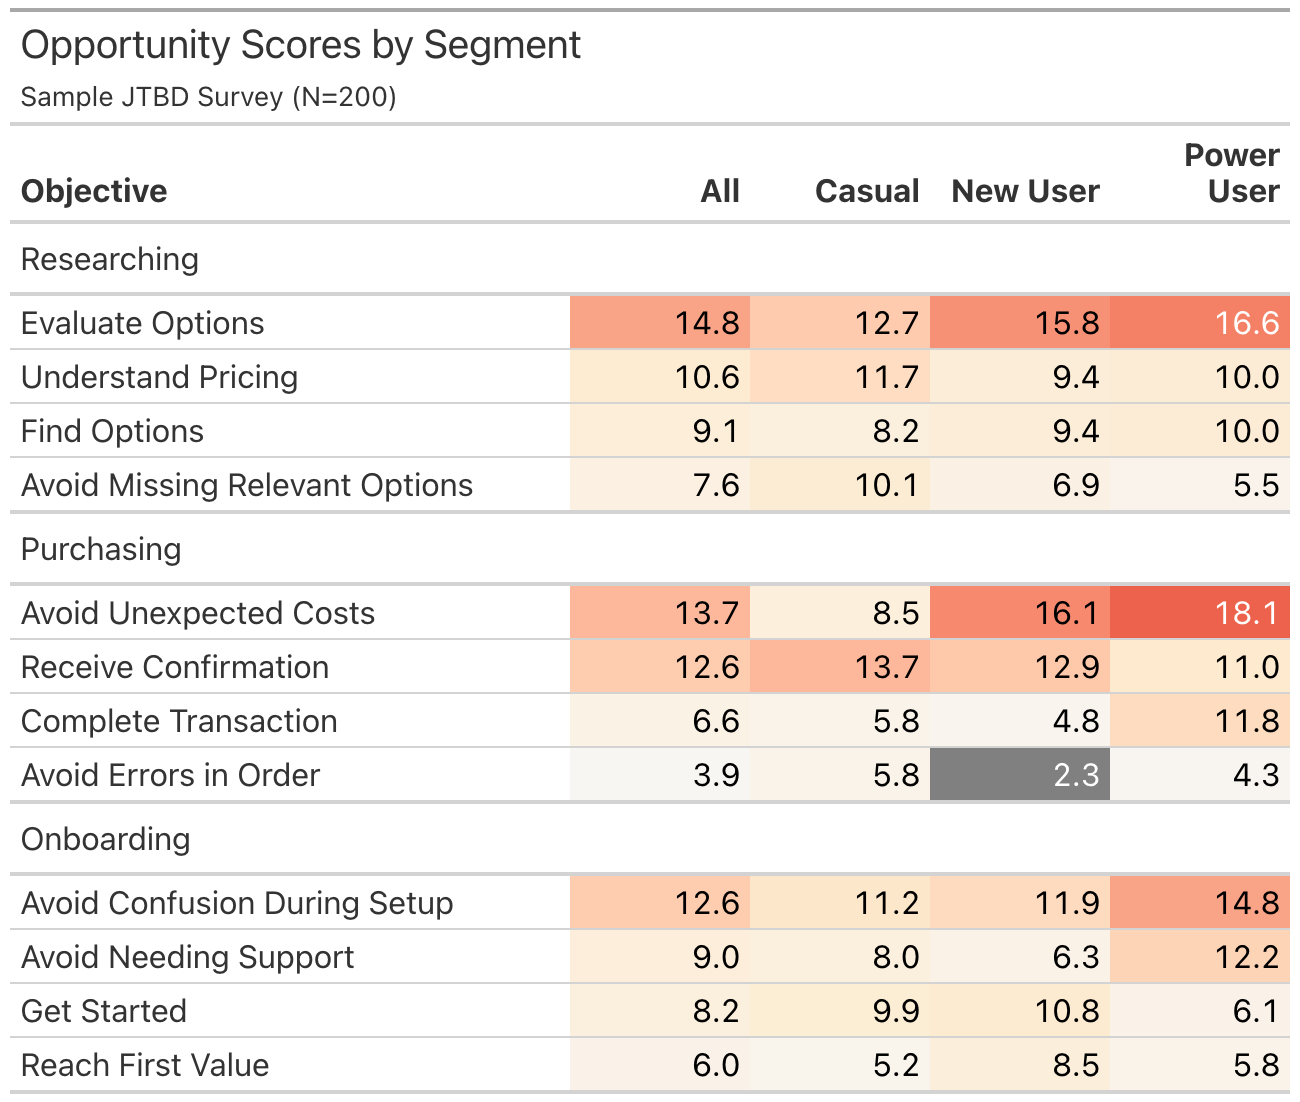
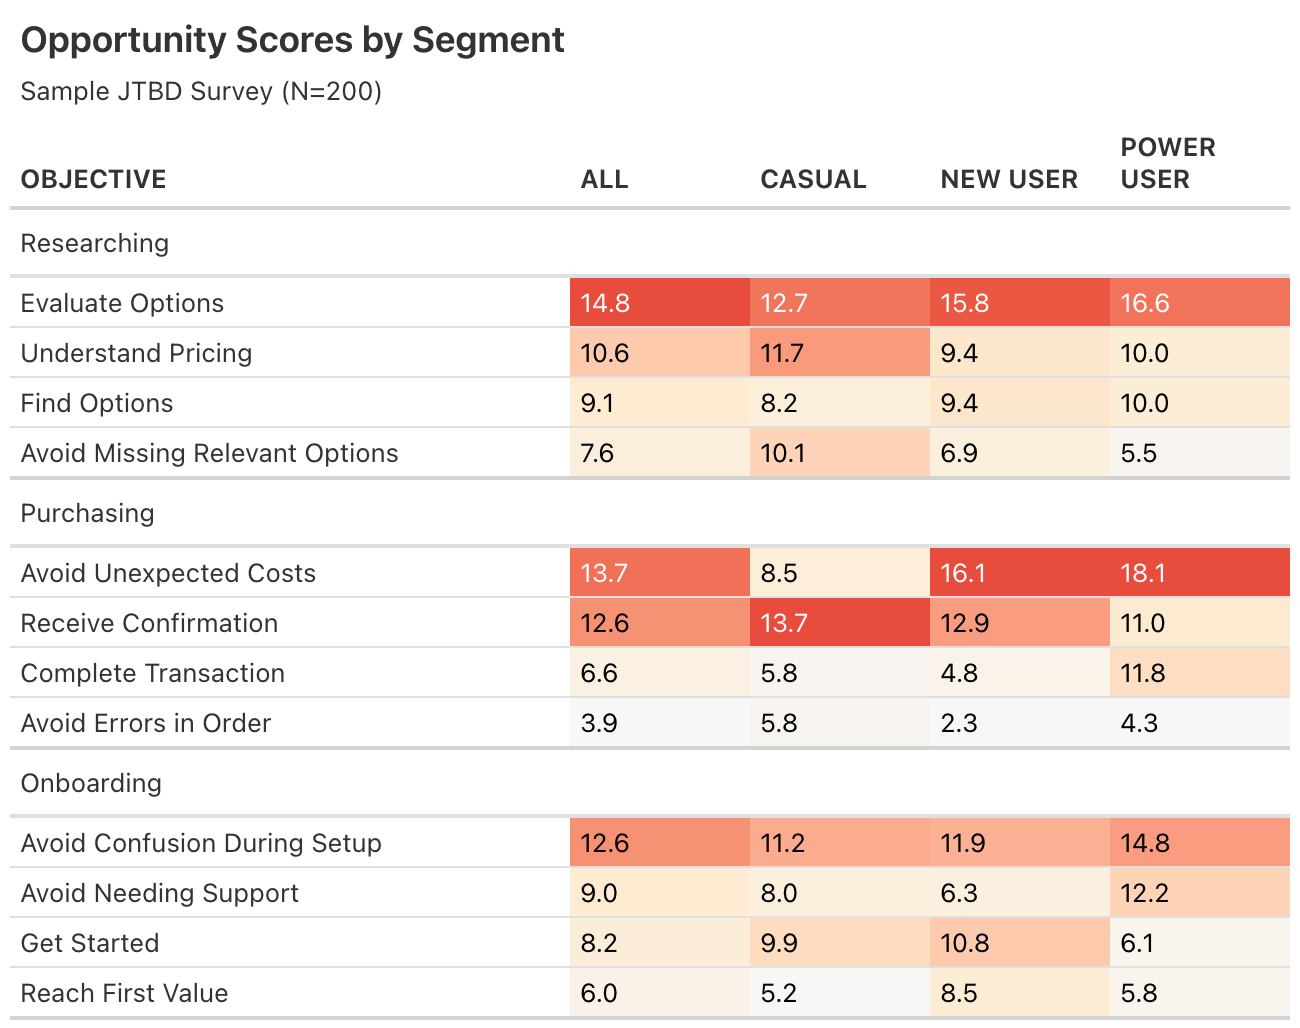
Add 8 visualizations to README for maximum wow factor
- Strategic Priority Quadrant (act now / monitor / investigate / deprioritize)
- Opportunity Gap chart (importance vs satisfaction dumbbell)
- Opportunity Heatmap by Segment (tile plot with heat-mapped scores)
- Opportunity Matrix with zone annotations
- Priority Ranking (color-coded horizontal bar chart)
- Cleveland Dot Plot for segment head-to-head
- Segment Divergence chart (delta from overall)
- Publication-ready gt table with gt_theme_jtbd()
- Add data-raw/generate_screenshots.R for reproducibility

diff --git a/README.md b/README.md
@@ -10,33 +10,65 @@
 
 ## The Formula
 
-The ODI opportunity score measures unmet customer needs:
-
 ```
 opportunity = importance + max(0, importance - satisfaction)
 ```
 
 When importance exceeds satisfaction, the gap amplifies the score. When users are already satisfied, opportunity equals importance (the floor). Scores range 0-20; anything above 10 is a high-opportunity outcome.
 
+---
+
 ## What You Get
 
-### Segment comparison tables
+### Strategic Priority Quadrant
 
-Compare opportunity scores across user segments to find where specific groups are underserved:
+Where should you focus? High importance + low satisfaction = act now.
 
-<img src="man/figures/readme-segment-table.png" width="600" alt="Segment comparison table" />
+<img src="man/figures/readme-quadrant.png" width="700" alt="Strategic priority quadrant" />
 
-### Opportunity matrix
+### The Opportunity Gap
 
-The classic ODI scatter plot with zone annotations. High importance + low satisfaction = high opportunity (red). Use `show_zones = TRUE` to add Under-Served / Appropriately-Served / Over-Served reference lines:
+See the gap between what users need and what they have. Wider gap = bigger opportunity.
+
+<img src="man/figures/readme-gap-chart.png" width="700" alt="Importance vs satisfaction gap chart" />
+
+### Opportunity Heatmap by Segment
+
+Spot segment-specific pain at a glance. Power users are underserved on "Avoid Unexpected Costs" (18.1) while casuals barely feel it (8.5).
+
+<img src="man/figures/readme-heatmap.png" width="650" alt="Opportunity heatmap across segments" />
+
+### Opportunity Matrix with Zone Annotations
+
+The classic ODI scatter plot with Under-Served, Appropriately-Served, Over-Served, and Table Stakes zones:
 
 <img src="man/figures/readme-opportunity-matrix-zones.png" width="700" alt="Opportunity score matrix with zones" />
 
-### Ranked opportunity scores
+### Priority Ranking
 
-Instantly see which outcomes have the highest unmet need:
+All objectives ranked by opportunity score, color-coded by priority tier:
 
-<img src="man/figures/readme-top-opportunities.png" width="600" alt="Top opportunity scores" />
+<img src="man/figures/readme-ranked.png" width="700" alt="Ranked opportunity scores by priority" />
+
+### Segment Head-to-Head (Cleveland Dot Plot)
+
+Compare two segments side by side. Where do casual users and power users diverge?
+
+<img src="man/figures/readme-cleveland.png" width="700" alt="Cleveland dot plot comparing segments" />
+
+### Segment Divergence
+
+How does each segment differ from the overall population? Instantly spot who's over- and under-served:
+
+<img src="man/figures/readme-segment-divergence.png" width="700" alt="Segment divergence from overall" />
+
+### Publication-Ready Tables
+
+Formatted gt tables with heat-mapped scores, ready for stakeholder decks:
+
+<img src="man/figures/readme-segment-table.png" width="550" alt="Segment comparison table" />
+
+---
 
 ## Quick Start
 
@@ -54,7 +86,7 @@ scores <- get_jtbd_scores(jtbd_sample)
 comparison <- get_jtbd_scores.comparison(jtbd_sample, "segment")
 
 # Visualize
-plot_opportunity_matrix(scores)
+plot_opportunity_matrix(scores, show_zones = TRUE)
 ```
 
 ## Functions
@@ -65,11 +97,13 @@ plot_opportunity_matrix(scores)
 | | `get_jtbd_scores.comparison()` | Compare scores across segments |
 | | `get_jtbd_scores.pairwise()` | Head-to-head comparison of two segments |
 | | `calculate_opportunity_score()` | Core ODI formula |
-| **Visualization** | `plot_opportunity_matrix()` | Importance x Satisfaction scatter |
+| **Visualization** | `plot_opportunity_matrix()` | Importance x Satisfaction scatter with zones |
 | | `plot_cleveland()` | Lollipop chart for segment comparison |
 | | `plot_this.graph.rel_score()` | Relative score bump chart |
 | | `plot_this.graph.abs_score()` | Absolute score bump chart |
-| **Tables** | `gt_theme_jtbd()` | Branded gt table theme |
+| | `theme_jtbd()` | Consistent ggplot2 theme for all charts |
+| | `jtbd_colors()` | Named color palette |
+| **Tables** | `gt_theme_jtbd()` | Branded gt table theme with heat mapping |
 | | `theme.job_step()` | Publication-ready gt table |
 | | `create.job_step.table()` | Filter + format + save as PNG |
 | | `create.pct.table()` | Frequency table with bar charts |
